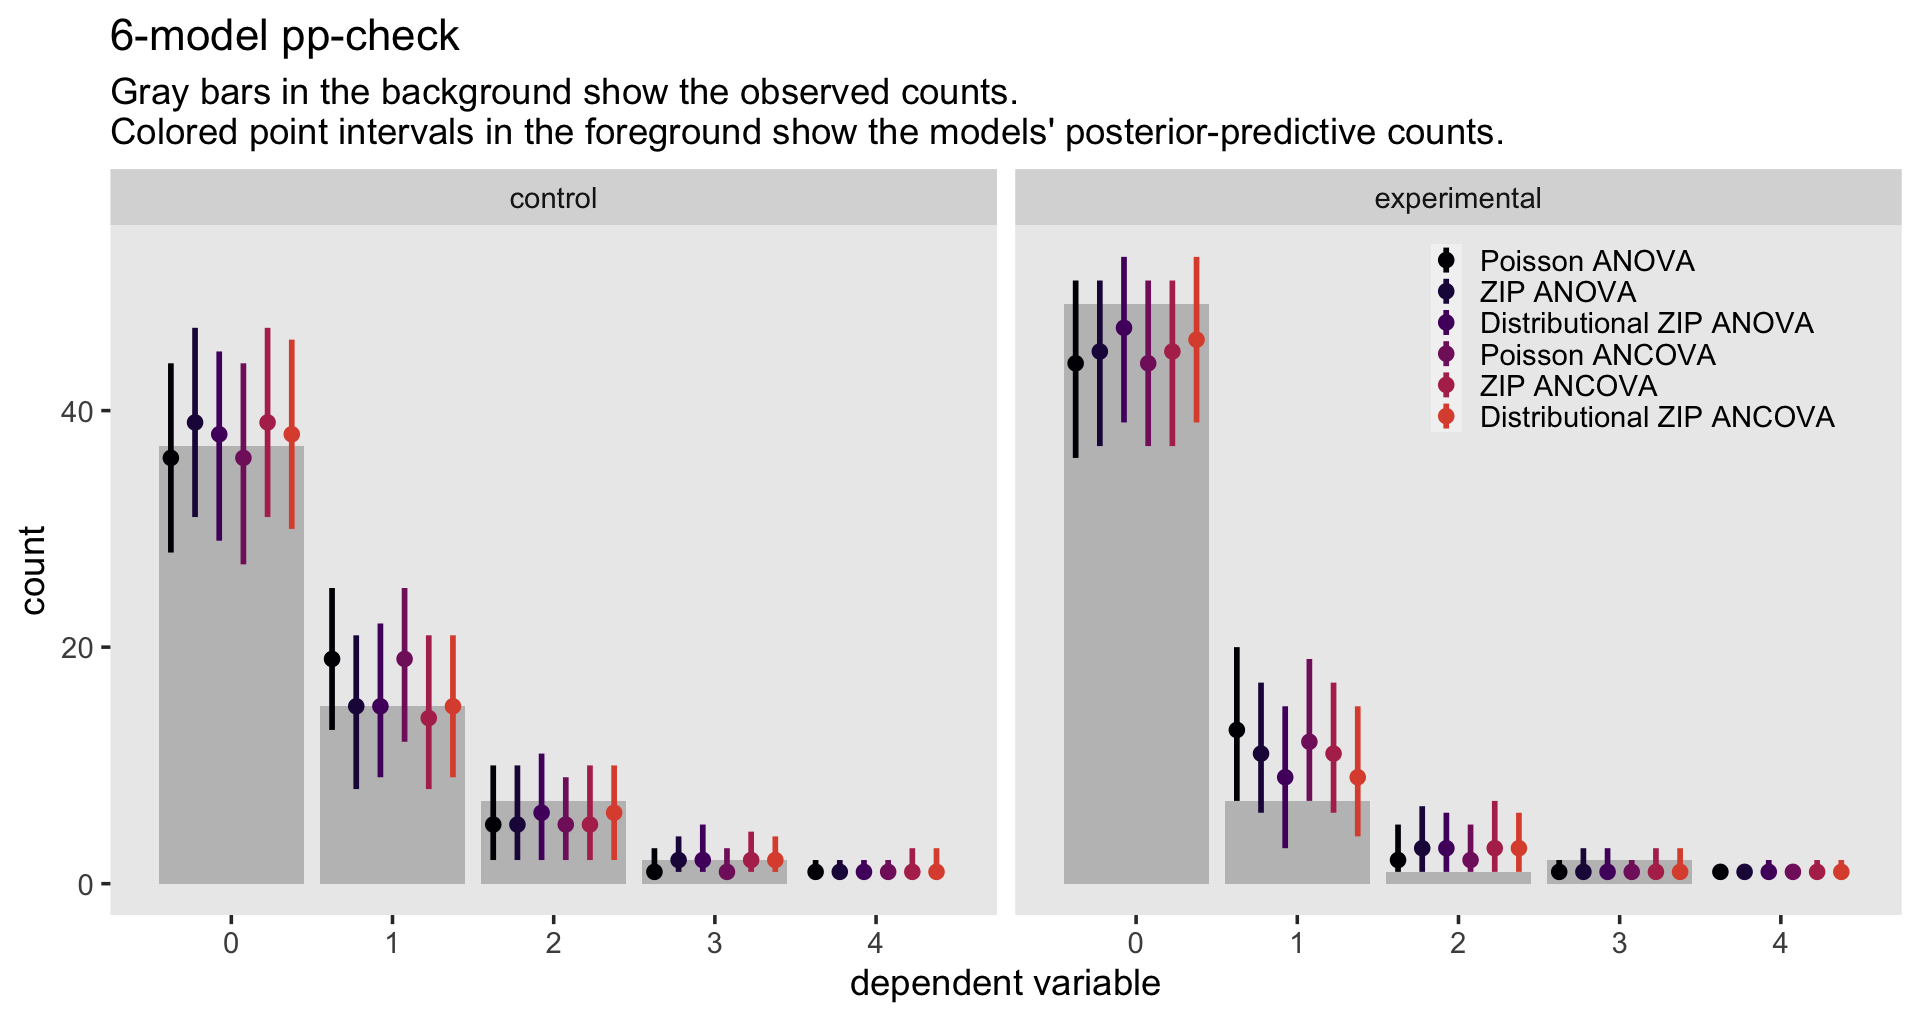
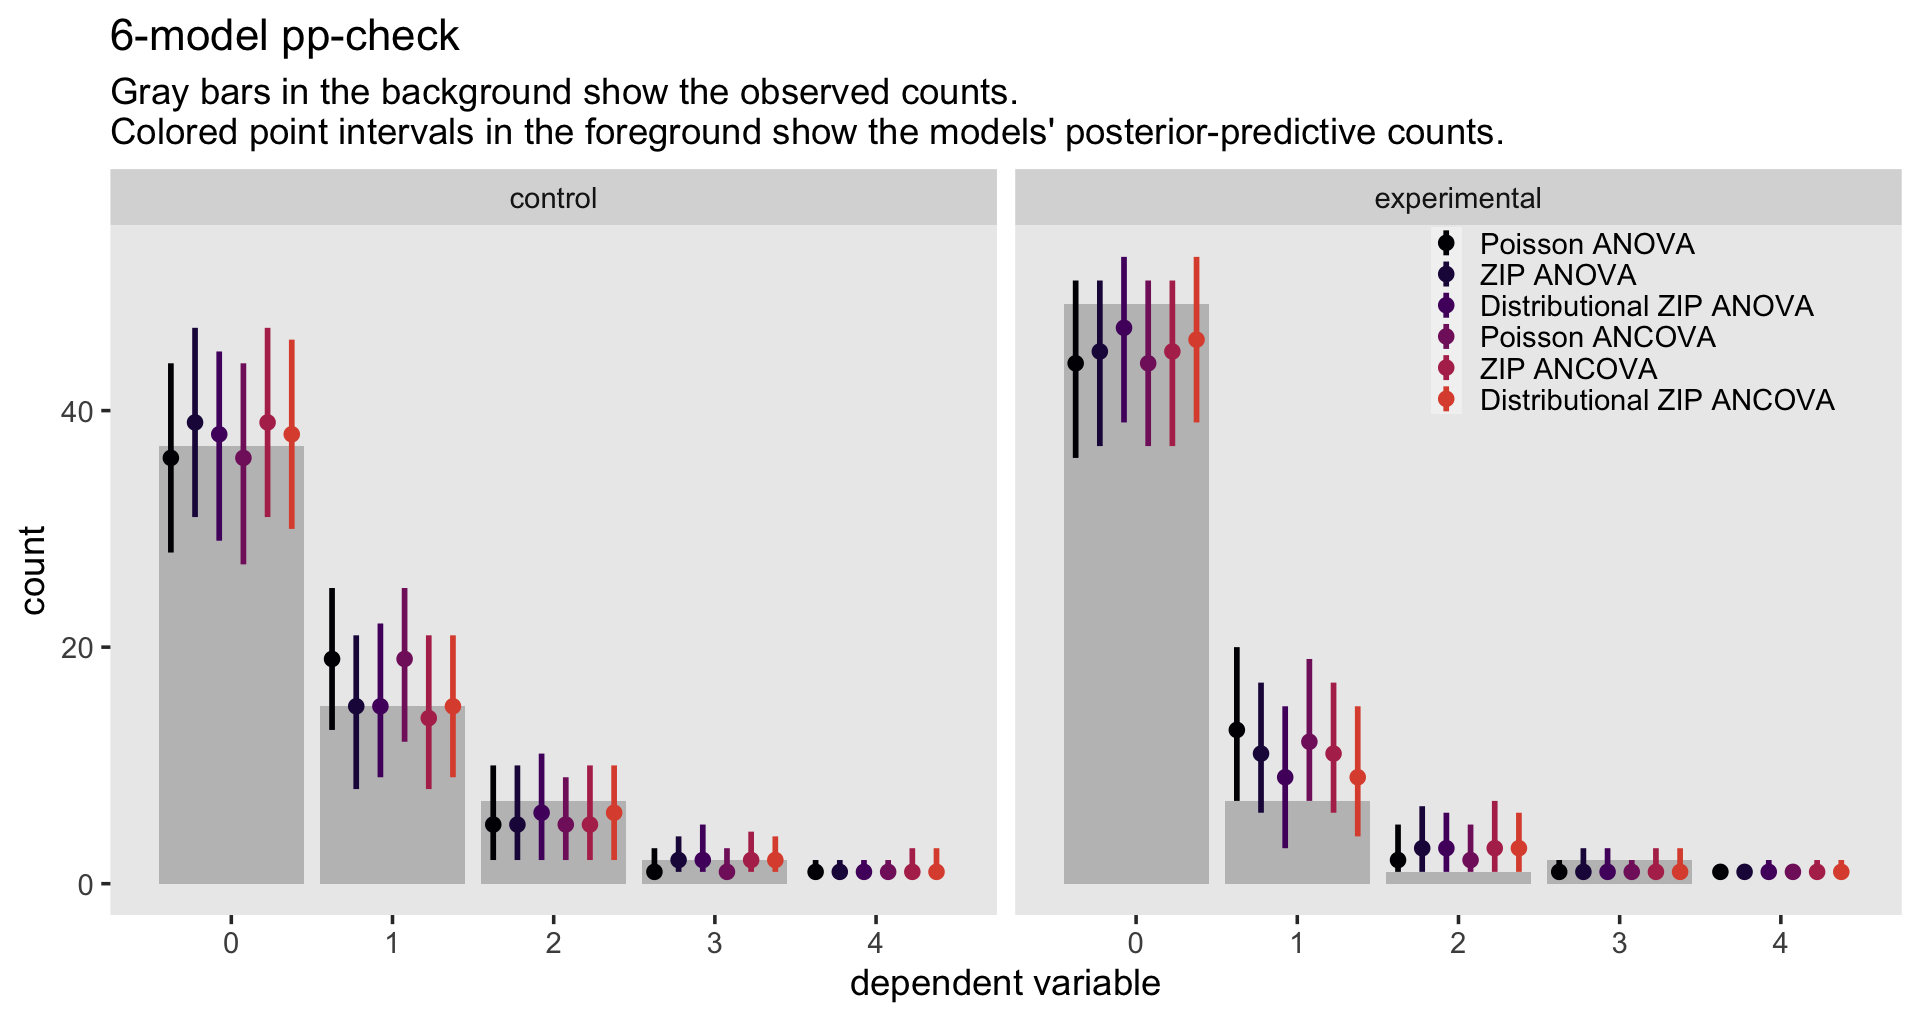
typos

Changed region(s): [[0.75, 0.2127, 0.9688, 0.4255]]

diff --git a/sketches/Sarafoglou-et-al--2023-.md b/sketches/Sarafoglou-et-al--2023-.md
@@ -1,13 +1,13 @@
 Sarafoglou et al (2023)
 ================
 A Solomon Kurz
-2023-07-03
+2023-07-04
 
 Sarafoglou et al (2023; <https://doi.org/10.1177/25152459221128319>)
-used a 2-group design ($n$ = 61 and $n$ = 59). Their preregistration
-lives at <https://osf.io/2cdht>. The team preregistered 4 specific
-hypothesis, and their fourth hypothesis (called “Hypothesis 4” in the
-paper) originally read:
+used a posttest-only 2-group design ($n$ = 61 and $n$ = 59). Their
+preregistration lives at <https://osf.io/2cdht>. The team preregistered
+4 specific hypothesis, and their fourth hypothesis (called “Hypothesis
+4” in the paper) originally read:
 
 > Analysis teams in the preregistration condition should (1) deviate
 > more often from their planned analysis than analysis teams in the
@@ -184,11 +184,14 @@ sarafoglou2023 %>%
 
 ## Models
 
-In this sketch, we’ll be fitting 7 models to the data. Three models will
-follow an ANOVA specification, and another three will be their ANCOVA
-analogues. But before we go into ANOVA and ANCOVA mode, we’ll first warm
-up with an unconditional ZIP model to familiarize ourselves with the
-parameters of the ZIP.
+In their preregistration, Sarafoglou and colleagues proposed
+zero-inflated Poisson (ZIP) models in their analysis plan for Hypothesis
+4, and I agree that was a good strategy for these data. In this sketch
+we will fit 7 models to the data, 2 with the Poisson likelihood and 5
+with the ZIP. Three models will follow an ANOVA specification, and
+another three will be their ANCOVA analogues. But before we go into
+ANOVA and ANCOVA mode, we’ll first warm up with an unconditional ZIP
+model to familiarize ourselves with the parameters.
 
 ### ZIP warmup.
 
@@ -206,23 +209,23 @@ $$
 where, because we have no predictor variables in the model, the two
 parameters $\lambda$ and $\pi$ are constants without $i$ subscripts. As
 with conventional Poisson models, we use the log link for $\lambda$,
-which is the `brm()` default. The $\beta_0$ parameter, then, is the
-intercept for $\lambda$ on the log scale. When you estimate $\pi$
-without predictor variables, the `brm()` default is the identity link,
-which we’ve retained here. The third and fourth lines in the equation
-show the priors, which may seem oddly specific. Before we discuss the
-priors in detail, we should what the $\lambda$ and $\pi$ parameters mean
+which is the `brm()` default. The $\beta_0$ parameter, then, is just
+$\lambda$ on the log scale. When you estimate $\pi$ without predictor
+variables, the `brm()` default is the identity link, which we’ve
+retained here. The third and fourth lines in the equation show the
+priors, which may seem oddly specific. Before we discuss the priors in
+detail, we should discuss what the $\lambda$ and $\pi$ parameters mean
 for the ZIP distribution.
 
 The $\lambda$ parameter in a simple Poisson distribution controls both
-the mean and the variance. However, the ZIP is a mixture of a Poisson
-count and a proportion of zero’s in addition to what you would typically
-expect from a Poisson count with a given $\lambda$. The $\pi$ parameter,
-also sometimes called $\theta$ by the Stan team
+the mean and the variance. However, the ZIP is a mixture of Poisson
+counts and a proportion of zero’s *in addition* to what you would
+typically expect from a Poisson count variable with a given $\lambda$.
+The $\pi$ parameter, also sometimes called $\theta$ by the Stan team
 (<https://mc-stan.org/docs/stan-users-guide/zero-inflated.html>) or $z$
 by Bürkner
 (<https://cran.r-project.org/web/packages/brms/vignettes/brms_families.html#zero-inflated-and-hurdle-models>),
-is the proportion of extra zero’s/ As a consequence, the mean of the
+is the proportion of extra zero’s. As a consequence, the mean of the
 mixture distribution is not simply $\lambda$, but is defined as
 
 $$
@@ -237,20 +240,22 @@ $$
 
 Thus, when we set our priors for $\lambda$, we can’t just base them on
 our expected value for our criterion variable. We need to account for
-the expected value for the proportion of zero’s, too. Before we discuss
-our prior for $\lambda$, then, I think we should first discuss $\pi$.
+the expected value for the proportion of zero’s, too. Therefore before
+we discuss our prior for $\lambda$, I think we should first discuss
+$\pi$.
 
 When I looked through the paper, preregistration and supporting
 materials from Sarafoglou and colleagues, it was not clear to me how
-many extra zero’s they expected for `deviation_count`. This is a new
-topic in meta science, and I found the prior research generally
-unhelpful, too. But Sarafoglou colleagues were confident enough
-`deviation_count` would have extra zero’s to justify planning on a ZIP
-model in their preregistration, we want a prior to assume some
-proportion greater than zero. The `brms()` default prior for this model
-is $\text{Beta}(1, 1)$, which is flat. My proposed $\text{Beta}(1, 4)$
-prior has a mean of 0.2, and a wide spread around that mean. Here are
-those two priors in a plot.
+many extra zero’s they expected for `deviation_count`. The paper covered
+a new topic in meta science, and I found the prior research generally
+unhelpful, too. But since Sarafoglou colleagues were confident enough
+that `deviation_count` would have extra zero’s that they felt justified
+planning on a ZIP model in their preregistration, I think we want our
+prior to assume some proportion meaningfully greater than zero. If you
+check with the `get_prior()` function, you’ll see the `brm()` default
+prior for this model is $\text{Beta}(1, 1)$, which is flat across the
+$[0, 1]$ range. My proposed $\text{Beta}(1, 4)$ prior has a mean of 0.2,
+and a wide spread around that mean. Here are those two priors in a plot.
 
 ``` r
 c(prior(beta(1, 1)),      # brms default
@@ -269,22 +274,23 @@ In case you didn’t know, the mean of the beta distribution is
 $\alpha / (\alpha + \beta)$, and the degree of *concentration* (aka
 *sample size*) around that mean can be expressed as $\alpha + \beta$.
 Thus, an alternative $\text{Beta}(10, 40)$ prior would have the same
-prior mean if 0.2, but with much greater concentration around that mean.
+prior mean of 0.2, but with much greater concentration around that mean.
 Try it out in another plot like the one above and see.
 
 Now we have settled on a prior for $\pi$, we’re almost ready to discuss
-$\lambda$. Modelers used to the ZIP might be able to think in terms of
-$\lambda$ directly, but I suspect those newer to the ZIP will find it
-easier to think in terms of the mean of the criterion variable
+$\lambda$. Modelers familiar with the ZIP might be able to think in
+terms of $\lambda$ directly, but I suspect those newer to the ZIP will
+find it easier to think in terms of the mean of the criterion variable
 `deviation_count` as a whole. Much like with $\pi$, the prior literature
-on this meta-science topic is sparse. Given the authors in this study
-were already interested in meta-science and they were aware their
-analyses were going to be scrutinized by others, my guess is they would,
-on average, deviate infrequently from their analysis plans. For the sake
-of the example, let’s suppose we expected an average value of 1 for
-`deviation_count`. With a little algebra, we can use the formula for
-$\mathbb E(y_i)$, above to compute $\lambda$ given fixed values for
-$\pi$ and $\mathbb E(y_i)$. Here’s the computation in code.
+on this meta-science topic is sparse. Given the research teams who
+participated in this study were already interested in meta-science and
+they were aware their analyses were going to be scrutinized by others,
+my guess is they would, on average, deviate infrequently from their
+analysis plans. For the sake of the example, let’s suppose we expected
+an average value of 1 for `deviation_count`. With a little algebra, we
+can use the formula for $\mathbb E(y_i)$, above, to compute $\lambda$
+given fixed values for $\pi$ and $\mathbb E(y_i)$. Here’s the
+computation in code.
 
 ``` r
 m <- 1     # expected mean for deviation_count
@@ -318,8 +324,6 @@ $$
 
 If we want our mean of 1 and, say, a standard deviation of 1.5, here’s
 what those equations look like in code.
-
-Here’s what that looks like in code.
 
 ``` r
 m <- 1.25  # desired mean for the ZIP lambda
@@ -477,7 +481,7 @@ p3 <- as_draws_df(fit0) %>%
   scale_x_continuous(expression(Pr(italic(y)==0)), limits = c(0, 1)) +
   scale_y_continuous(NULL, breaks = NULL)
 
-# combine and display
+# combine, entitle, and display
 p1 + p2 + p3 +
   plot_annotation(title = "How do the ZIP posteriors compare to the sample statistics?",
                   subtitle = "The dashed blue lines mark the sample statistics.")
@@ -485,12 +489,17 @@ p1 + p2 + p3 +
 
 <img src="Sarafoglou-et-al--2023-_files/figure-gfm/unnamed-chunk-15-1.png" width="768" />
 
-In the sections to come, you’ll see how these exercises pay off when we
-want to make substantive inferences about the experimental conditions.
+Now we have a sense of how to fit and work with at simple ZIP model. In
+the case of this particular ZIP model, it looks like it did a pretty
+good job capturing the sample statistics, which seems reassuring. In the
+sections to come, you’ll see how these exercises pay off when we want to
+make substantive inferences about the experimental conditions.
 
 ### ANOVA models.
 
-For the Poisson ANOVA, I propose the model
+In this section, we will fit three ANOVA models: a Poisson ANOVA, a ZIP
+ANOVA, and a distributional ZIP ANOVA. For the Poisson ANOVA, I propose
+the model
 
 $$
 \begin{align*}
@@ -552,9 +561,11 @@ prior(lognormal(-0.5893275, 1.085659)) %>%
 
 As to the $\beta_1$ prior, $\text{Normal}(0, 0.5)$ is a generic
 weakly-regularizing distribution meant to rule out group differences
-much more than plus or minus 1 on the log scale.
+much more than plus or minus 1 on the log scale. Consider adjusting the
+$\sigma$ hyperparameter to make your model more or less conservative, as
+desired.
 
-The ZIP ANOVA of the model is of the form
+The ZIP ANOVA version of the model will follow the form
 
 $$
 \begin{align*}
@@ -567,10 +578,11 @@ $$
 $$
 
 where we have retained the same priors for $\beta_0$ and $\pi$ from the
-earlier unconditional ZIP model, and we have added the same
-$\text{Normal}(0, 0.5)$ prior for $\beta_1$ as in the Poisson ANOVA.
+earlier unconditional ZIP model, and we have added the
+$\text{Normal}(0, 0.5)$ prior for $\beta_1$, just like in the Poisson
+ANOVA, above.
 
-We will also fit a distributional ZIP ANOVA model of the form
+Finally, our distributional ZIP ANOVA model will be of the form
 
 $$
 \begin{align*}
@@ -585,11 +597,11 @@ $$
 $$
 
 where $\pi$ now has an $i$ subscript indicating it can vary as a
-function of predictor variables. To ensure the $\pi_i$ only makes
-predictions within the 0-to-1 range, we use the logit link, which is the
-`brm()` default. To help differentiate the parameters in the $\pi$ model
-from those for the $\lambda_i$ model, we use $\beta$ coefficients for
-the latter, and $\gamma$ coefficients for the former.
+function of predictor variables. To ensure the $\pi_i$ submodel only
+makes predictions within the 0-to-1 range, we use the logit link, which
+is the `brm()` default. To help differentiate the parameters in the
+$\pi_i$ model from those for the $\lambda_i$ model, we use $\beta$
+coefficients for the latter, and $\gamma$ coefficients for the former.
 
 When I set priors for the intercept of a typical logistic regression
 model, I like $\text{Normal}(0, 1.25)$ as a weakly-regularizing default,
@@ -634,7 +646,7 @@ $\text{Normal}(0, 1.25)$ prior for $\gamma_0$ is centered at 0.5, but
 extends across the full parameter space. However, the
 $\text{Normal}(-1.7, 1.1)$ looks remarkably similar to the
 $\text{Beta}(1, 4)$ prior in terms of gross shape, mean, and
-interquartile and 95% ranges.
+interquartile and 95% ranges. This will be our approach.
 
 The $\text{Normal}(0, 1)$ prior for $\gamma_1$ is my default
 weakly-regularizing prior for non-intercept $\beta$ coefficients in
@@ -753,9 +765,12 @@ print(fit3)
     ## and Tail_ESS are effective sample size measures, and Rhat is the potential
     ## scale reduction factor on split chains (at convergence, Rhat = 1).
 
+On the whole, the summary results look fine.
+
 ### ANCOVA models.
 
-For the Poisson ANCOVA, I propose the model
+The three models in this section will be the ANCOVA generalizations of
+the ANOVA models, above. For the Poisson ANCOVA, I propose the model
 
 $$
 \begin{align*}
@@ -768,13 +783,13 @@ $$
 
 where the two new coefficients $\beta_2$ and $\beta_3$ are for the
 standardized versions of our two baseline covariates, `tz` and `mz`.
-Both covariates receive the regularizing $\text{Normal}(0, 0.5)$, and
-the priors for all other parameters are the same as those in the ANOVA
-version of the model. We will follow the same basic convention for the
-ZIP ANCOVA and the distributional ZIP ANCOVA. Both will be the same as
-their ANOVA counterparts, but they will include the new parameters for
-the two baseline covariates, along with regularizing priors. Here’s how
-to fit the models with `brm()`.
+Both covariates receive the regularizing $\text{Normal}(0, 0.5)$ prior,
+and the priors for all other parameters are the same as those in the
+ANOVA version of the model. We will follow the same basic convention for
+the ZIP ANCOVA and the distributional ZIP ANCOVA. Both will be the same
+as their ANOVA counterparts, but they will include the new parameters
+for the two baseline covariates, along with regularizing priors. Here’s
+how to fit the ANCOVA models with `brm()`.
 
 ``` r
 # Poisson ANCOVA
@@ -892,6 +907,8 @@ print(fit6)
     ## and Tail_ESS are effective sample size measures, and Rhat is the potential
     ## scale reduction factor on split chains (at convergence, Rhat = 1).
 
+The model summaries look fine.
+
 ### Model comparison: Information criteria.
 
 We might compare the models by their LOO and WAIC estimates. First, we
@@ -979,7 +996,8 @@ models fared slightly worse than the simpler ANOVA models. If you look
 closely at the $\beta$ and $\gamma$ coefficients for the baseline
 covariates in the ANCOVA models, you’ll see their magnitudes were
 generally pretty small, and fairly uncertain, which indicates the `tz`
-and `mz` variables were poor predictors for the criterion variable.
+and `mz` variables were poor predictors for the criterion variable. Not
+every baseline covariate is a winner, friends.
 
 ### Model comparison: Posterior-predictive checks.
 
@@ -1038,7 +1056,7 @@ bind_rows(
        y = "count") +
   theme(legend.background = element_blank(),
         legend.key.size = unit(0.13, 'in'),
-        legend.position = c(.85, .85)) +
+        legend.position = c(.85, .875)) +
   facet_wrap(~ group)
 ```
 
@@ -1125,7 +1143,12 @@ tau_ate %>%
 
 <img src="Sarafoglou-et-al--2023-_files/figure-gfm/unnamed-chunk-29-1.png" width="672" />
 
-Overall, they’re all very similar.
+Overall, the estimates are all very similar across models. From a
+substantive perspective, analysis blinding tends to cause about one
+fewer analysis deviations in five, relative to the conventional
+preregistration approach. Does a reduction of about one in five seem
+like a lot to you? I’m not impressed, but without a benchmark, it seems
+hard to gauge.
 
 ### Differences in variance
 
@@ -1136,9 +1159,9 @@ $$
 \mathbb{Var}(y_i) = \lambda (1 - \pi) (1 + \pi \lambda).
 $$
 
-If you think of a conventional Poisson model as one for which $\pi = 0$,
-this formula can apply to Poisson models, too. If you follow the
-algebra, you’ll see the equation then simplifies to $\lambda$:
+If you think of a conventional Poisson model as a ZIP for which
+$\pi = 0$, this formula can apply to Poisson models, too. If you follow
+the algebra, you’ll see the equation then simplifies to $\lambda$:
 
 $$
 \begin{align*}
@@ -1149,6 +1172,7 @@ $$
 \end{align*}
 $$
 
+I point this out because it will streamline our post-processing code.
 For this section, I think it will be easiest to take an
 `add_linpred_draws()` based workflow. As a first step, we’ll define the
 predictor grid.
@@ -1324,13 +1348,15 @@ v %>%
 <img src="Sarafoglou-et-al--2023-_files/figure-gfm/unnamed-chunk-34-1.png" width="672" />
 
 The Poisson models are very confident about the variance differences.
-The ZIP model are less so.
+The ZIP model are less so. This particular analysis might not catch your
+interest from a substantive perspective, but at the very least it’s good
+to increase your awareness of your options.
 
 ### Differences in proportion of zero’s
 
-Since we know know Poisson models can be expressed in terms of $\lambda$
-and $\pi$, given we set $\pi = 0$, we can also use the following formula
-to compute the proportion of expected zero’s for each model as
+Since we now know Poisson models can be expressed in terms of $\lambda$
+*and* $\pi = 0$, we can also use the following formula to compute the
+proportion of expected zero’s for all of our models as
 
 $$
 \Pr(y = 0) = \pi + (1 - \pi)  \exp(-\lambda),
@@ -1373,7 +1399,7 @@ print(z)
     ## 5 fit5  0.0689 0.0362 -0.00466 0.138
     ## 6 fit6  0.159  0.0657  0.0333  0.285
 
-Here is the sample difference.
+Here is the sample difference in the proportion of zero’s.
 
 ``` r
 d_z <- sarafoglou2023 %>% 
@@ -1419,13 +1445,13 @@ about the magnitude of the difference.
 
 The ZIP model a fine strategy to have at your disposal when you have a
 lot of zero’s in your counts, and it seems like it was a decent fit for
-the `sarafoglou2023` data. We have even more options. For example, the
-zero-inflated negative binomial (ZINB) is a great choice if you have
-both extra zero’s and overdispersion. Hurdle models provide an
-alternative approach when all the non-zero counts are seen as part of a
-fundamentally different process than all the zero’s, and you can fit
-either hurdle Poisson (HP) or hurdle negative binomial (HNB) models.
-These options are all available in **brms** by setting
+the `sarafoglou2023` data. We have even more options, such as
+zero-inflated negative binomial (ZINB) models when you have both extra
+zero’s and overdispersion. Hurdle models provide an alternative approach
+when all the non-zero counts are seen as part of a fundamentally
+different process than all the zero’s, and you can fit either hurdle
+Poisson (HP) or hurdle negative binomial (HNB) models. These options are
+all available in **brms** by setting
 `family = zero_inflated_negbinomial()`, `family = hurdle_poisson()` or
 `family = hurdle_negbinomial()`, and I’d even recommend trying these out
 on the `sarafoglou2023` data for practice.
